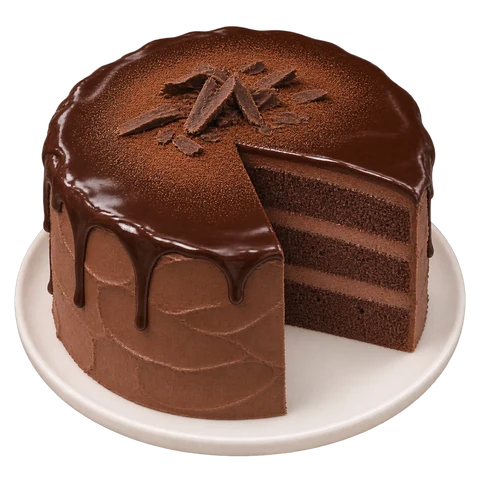
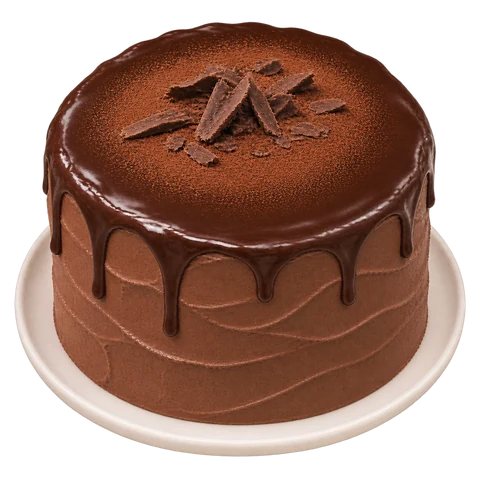
更新蛋糕产品图并修正源图映射

diff --git a/tools/cake_art.py b/tools/cake_art.py
@@ -1,4 +1,4 @@
-"""把 picture/蛋糕/ 里的产品图转成游戏用的 webp。
+"""把 picture/cake/ 里的产品图转成游戏用的 webp。
 
 - 自动裁掉四周透明边（有 alpha 的图），再居中补成正方形
 - 统一 480×480，保留透明通道
@@ -9,12 +9,12 @@ import os
 from PIL import Image
 
 ROOT = os.path.dirname(os.path.dirname(os.path.abspath(__file__)))
-SRC = os.path.join(ROOT, 'picture', '蛋糕')
+SRC = os.path.join(ROOT, 'picture', 'cake')
 OUT = os.path.join(ROOT, 'public', 'art')
 
 # 文件名 -> 产品 id（和 src/data.js 的 PRODUCTS 对齐）
 MAP = {
-    '香草奶油蛋糕切面透明展示.png': 'plain',
+    '香草奶油蓝莓草莓蛋糕.png': 'plain',
     '草莓奶油蛋糕透明背景美食摄影.png': 'strawberry',
     '巧克力甘纳许蛋糕切片.png': 'chocolate',
     '紫薯芋泥夹心奶油蛋糕.png': 'taro',

diff --git a/素材需求.md b/素材需求.md
@@ -160,7 +160,7 @@ CG 是整屏插画，会盖住背景。人物按描述画，构图留出下方 3
 - 三位主角立绘（林念 / 苏晴 / 林暖）—— 已从设定集切出并抠成透明底
 - 苏晴、林暖各 6 种表情
 - 店铺外景、两张合照
-- 12 款蛋糕产品图 —— 图已有（`picture/蛋糕/`），但**还没接进游戏**，菜单里目前是 SVG 示意图
+- 12 款蛋糕产品图 —— 源图位于 `picture/cake/`，已接入产品展示、制作、订单与联名等界面；修改源图后运行 `python tools/cake_art.py` 更新 `public/art/cake-*.webp`
 
 ---
 
